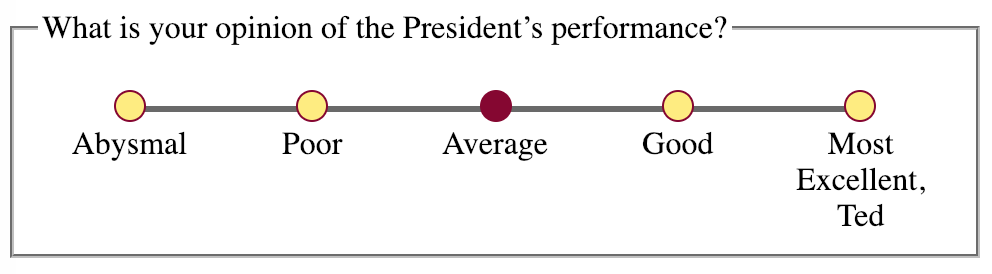
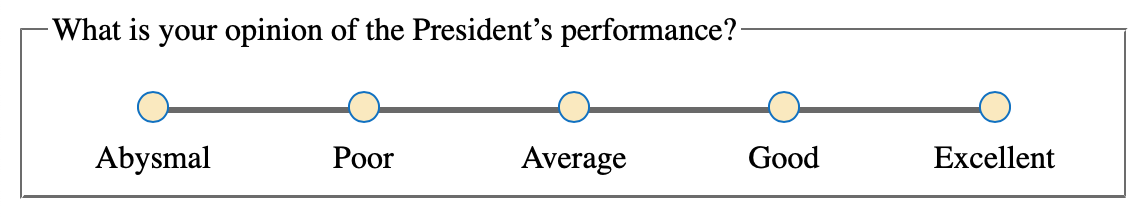
Upgrades, hooks, extendable
• This commit upgrades the dependencies.
• The code was re-written to use React's functional components and hooks instead of Class components.
• It can now accept any valid DOM attribute and you can pass in a React ref.
• The README was updated to be little easier to understand.
• The major version bump is because the default colors changed.

diff --git a/src/likert.js b/src/likert.js
@@ -1,9 +1,10 @@
 import React, { useState, useEffect } from 'react'
+import classNames from 'classnames';
 import SHA1 from 'crypto-js/sha1'
 
 import './likert.css'
 
-function LikertScale ({ question, responses, picked, id, ...restProps }, ref) {
+function LikertScale({ question, responses, picked, id, className = '', ...restProps }, ref) {
 	const [isKeyboardUser, setIsKeyboardUser] = useState(false)
 
 	const listenForTab = evt => {
@@ -46,9 +47,13 @@ function LikertScale ({ question, responses, picked, id, ...restProps }, ref) {
 		)
 	})
 
+	const cn = classNames('likertScale', className, {
+		isKeyboardUser
+	})
+
 	return (
 		<fieldset
-			className={`likertScale ${isKeyboardUser ? 'isKeyboardUser' : ''}`}
+			className={cn}
 			ref={ref}
 			id={id || sha}
 			{...restProps}

diff --git a/src/likert.css b/src/likert.css
@@ -28,8 +28,8 @@
   width: 1em;
   height: 1em;
   border-radius: 0.5em;
-  border: thin solid #870230;
-  background-color: #ffed79;
+  border: thin solid #006fc4;
+  background-color: #faeabd;
   position: absolute;
   left: 50%;
   transform: translateX(-50%);
@@ -50,7 +50,7 @@
   box-shadow: 0 0 5px 2px rgba(0, 119, 195, 0.5);
 }
 .likertResponse>input:checked+.likertIndicator {
-  background-color: #870230;
+  background-color: #006fc4;
 }
 .visuallyHidden { 
   position: absolute; 

diff --git a/src/preview.js b/src/preview.js
@@ -26,7 +26,13 @@ function PreviewComponent () {
 	})
 
 	return (
-		<Likert {...likertOptions} ref={refLikert} id='steckerlfisch' />
+		<Likert {...likertOptions}
+			ref={refLikert}
+			id='steckerlfisch'
+			// eslint-disable-next-line no-console
+			onClick={() => console.log('pretzels')}
+			className='donuts'
+		/>
 	)
 }
 

diff --git a/README.md b/README.md
@@ -1,13 +1,15 @@
 React Likert Scale
 ======================================
 
-React Likert Scale is a [React component](https://reactjs.org/docs) that renders a Likert Scale. It is fully responsive and the styling can be customized by providing your own CSS styles.
+React Likert Scale is a [React component](https://reactjs.org/docs) that renders a Likert Scale. It
+is fully responsive, very small size (about 8kb), and the styling can be customized by providing
+your own CSS styles.
 
 ![Screenshot of Likert component](./likert.png)
 
 ## Installation
 
-`npm install --save react-likert-scale`
+`npm install -P react-likert-scale`
 
 
 ## Usage
@@ -28,7 +30,7 @@ export default () => {
       { value: 2, text: "Poor" },
       { value: 3, text: "Average" },
       { value: 4, text: "Good" },
-      { value: 5, text: "Most Excellent, Ted" }
+      { value: 5, text: "Excellent" }
     ],
     picked: val => {
       console.log(val);
@@ -46,5 +48,65 @@ This component has three `props`:
 * `question` — (string) This is the prompt that displays above the options.
 * `responses` — (array of objects) These are your options. The `value` key is what is returned to
   the calling application in the `picked` callback.
-* `picked` — (function) Optionally, you can provide a callback function that returns the value of
-  the option that a user clicks on.
+* `picked` — (callback function) Optionally, you can provide a callback function that returns the
+  value of the option that was clicked.
+
+## FAQ
+
+### How do I change the colors or other styling?
+
+The top-level DOM element that gets created by this component is `<fieldset class="likertScale">`.
+You can override any styles by prefixing your rule with `fieldset.likertScale`. For example, let’s
+say you want the radio button “dots” to have a light gray background with a dark green ring.
+
+```
+fieldset.likertScale .likertIndicator {
+  border: thin solid darkGreen;
+  background-color: lightGray;
+}
+```
+
+### I need access to the DOM element created by React. How is that done?
+
+This isn’t very common, but you may want to set focus on a Likert Scale after the page renders. This
+is done with React via `refs`. Either create your ref with `React.createRef()` or the `useRef()`
+hook. You can then pass your ref to the Likert component.
+
+```javascript
+import React, { useRef } from 'react';
+import Likert from 'react-likert-scale';
+
+export default () => {
+  const likertOptions = {
+    question: "What is your opinion of the President’s performance?",
+    responses: [
+      { value: 1, text: "Abysmal" },
+      { value: 2, text: "Poor" },
+      { value: 3, text: "Average" },
+      { value: 4, text: "Good" },
+      { value: 5, text: "Excellent" }
+    ]
+  };
+
+  const likertRef = useRef();
+
+  return (
+    <Likert {...likertOptions} ref={likertRef} />
+  )
+}
+```
+
+### Can I pass DOM attributes such as `id`, `class`, `disabled`, `data-*`, `onClick`, etc.?
+
+Sure. They will be applied to the likert component’s top-level DOM element, `<fieldset>`. e.g.:
+
+```javascript
+<Likert {...likertOptions}
+  id='Q1'
+  className='myClass'
+  onClick={() => {
+    doThis();
+    andThis();
+  }}
+/>
+```
